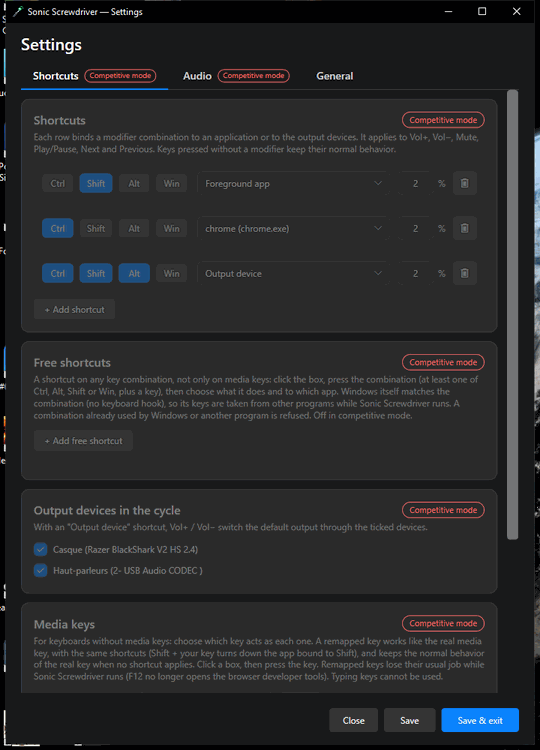
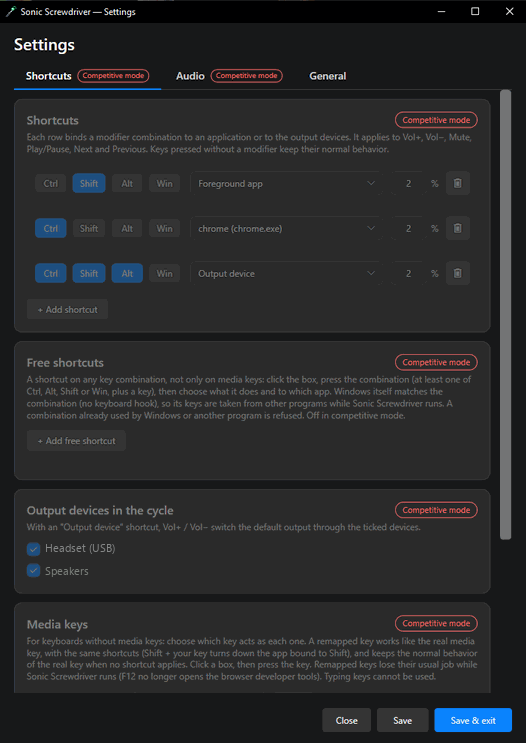
Site: games table matches the README, device names painted over in two screenshots

diff --git a/site/games.html b/site/games.html
@@ -61,7 +61,7 @@
     </table>
     <!-- keep in sync with README -->
     <p>The mixer, the sliders, switching the default output and the physical media keys keep working. Competitive mode lowers the risk but does not remove it: quitting the app is the safest choice.</p>
-    <p><img src="img/settings-competitive.png" width="270" height="375" alt="Settings with Competitive mode on: greyed options and red labels on the cards and tabs"></p>
+    <p><img src="img/settings-competitive.png" width="270" height="381" alt="Settings with Competitive mode on: greyed options and red labels on the cards and tabs"></p>
 
     <h2 id="automatic">Automatic mode</h2>
     <!-- keep in sync with README -->
@@ -74,22 +74,22 @@
 
     <h2 id="tested-games">Tested games</h2>
     <!-- keep in sync with README -->
-    <p>&ldquo;Tested&rdquo; means tried by the author with no problem; &ldquo;Not yet&rdquo; means not tested yet. A tick says nothing about a future anti-cheat update, and a game that is not listed is simply untested. The last column follows the advice above: for strict anti-cheat, use Competitive mode (or quit the app).</p>
+    <p>What the author tried so far. &ldquo;Needs Competitive mode&rdquo; says whether the game works only with the mode on (the app runs, but its keyboard hook and overlay may be refused or flagged by the anti-cheat). A result says nothing about a future anti-cheat update, and a game that is not listed is simply untested.</p>
     <table>
       <thead>
         <tr><th>Game</th><th>Anti-cheat</th><th>Tested</th><th>Needs Competitive mode</th></tr>
       </thead>
       <tbody>
-        <tr><td>Rocket League</td><td>EasyAntiCheat</td><td>Yes</td><td>Recommended</td></tr>
-        <tr><td>Valorant</td><td>Vanguard (kernel driver)</td><td>Not yet</td><td>Recommended</td></tr>
-        <tr><td>Counter-Strike 2 through FACEIT</td><td>FACEIT Anti-Cheat (kernel driver)</td><td>Not yet</td><td>Recommended</td></tr>
-        <tr><td>Call of Duty: Warzone</td><td>Ricochet (kernel driver)</td><td>Not yet</td><td>Recommended</td></tr>
-        <tr><td>Fortnite</td><td>EasyAntiCheat and BattlEye</td><td>Not yet</td><td>Recommended</td></tr>
-        <tr><td>Apex Legends</td><td>EasyAntiCheat</td><td>Not yet</td><td>Recommended</td></tr>
-        <tr><td>Rainbow Six Siege</td><td>BattlEye</td><td>Not yet</td><td>Recommended</td></tr>
-        <tr><td>PUBG</td><td>BattlEye</td><td>Not yet</td><td>Recommended</td></tr>
-        <tr><td>Destiny 2</td><td>BattlEye</td><td>Not yet</td><td>Recommended</td></tr>
-        <tr><td>Rust</td><td>EasyAntiCheat</td><td>Not yet</td><td>Recommended</td></tr>
+        <tr><td>Rocket League</td><td>EasyAntiCheat</td><td>Yes</td><td>No</td></tr>
+        <tr><td>Valorant</td><td>Vanguard (kernel driver)</td><td>Not yet</td><td>Not known yet</td></tr>
+        <tr><td>Counter-Strike 2 through FACEIT</td><td>FACEIT Anti-Cheat (kernel driver)</td><td>Not yet</td><td>Not known yet</td></tr>
+        <tr><td>Call of Duty: Warzone</td><td>Ricochet (kernel driver)</td><td>Not yet</td><td>Not known yet</td></tr>
+        <tr><td>Fortnite</td><td>EasyAntiCheat and BattlEye</td><td>Not yet</td><td>Not known yet</td></tr>
+        <tr><td>Apex Legends</td><td>EasyAntiCheat</td><td>Not yet</td><td>Not known yet</td></tr>
+        <tr><td>Rainbow Six Siege</td><td>BattlEye</td><td>Not yet</td><td>Not known yet</td></tr>
+        <tr><td>PUBG</td><td>BattlEye</td><td>Not yet</td><td>Not known yet</td></tr>
+        <tr><td>Destiny 2</td><td>BattlEye</td><td>Not yet</td><td>Not known yet</td></tr>
+        <tr><td>Rust</td><td>EasyAntiCheat</td><td>Not yet</td><td>Not known yet</td></tr>
       </tbody>
     </table>
     <!-- keep in sync with README -->

diff --git a/site/features.html b/site/features.html
@@ -57,7 +57,7 @@
     <p>A media key without a modifier, or with an unbound combination, keeps its usual Windows behavior. The default shortcut is <kbd>Ctrl</kbd> + media keys on the foreground app.</p>
     <p class="small muted">Play/Pause, Next and Previous only reach apps that register with Windows media controls (Spotify, browsers, most players). When an elevated (administrator) window has focus, Windows does not pass keys to the app unless it runs elevated too.</p>
     <div class="shots">
-      <img src="img/settings-shortcuts.png" width="270" height="375" alt="Settings, Shortcuts tab: modifier combinations bound to the foreground app, a specific app and the output devices">
+      <img src="img/settings-shortcuts.png" width="270" height="381" alt="Settings, Shortcuts tab: modifier combinations bound to the foreground app, a specific app and the output devices">
     </div>
 
     <!-- keep in sync with README -->
@@ -131,7 +131,7 @@
     <p>One switch turns off everything an anti-cheat could flag (shortcuts, overlay, process lookups) for online games, with an optional shortcut to flip it. The settings grey out what it switches off and mark the cards and tabs concerned with a red &ldquo;Competitive mode&rdquo; label. Details, limits and the list of tested games: <a href="games.html#competitive-mode">Games and anti-cheat</a>.</p>
     <div class="shots">
       <img src="img/settings-general.png" width="270" height="375" alt="Settings, General tab: the Competitive mode switch, start with Windows and hidden apps">
-      <img src="img/settings-competitive.png" width="270" height="375" alt="Settings with Competitive mode on: greyed options and red labels on the cards and tabs">
+      <img src="img/settings-competitive.png" width="270" height="381" alt="Settings with Competitive mode on: greyed options and red labels on the cards and tabs">
     </div>
 
     <!-- keep in sync with README -->
